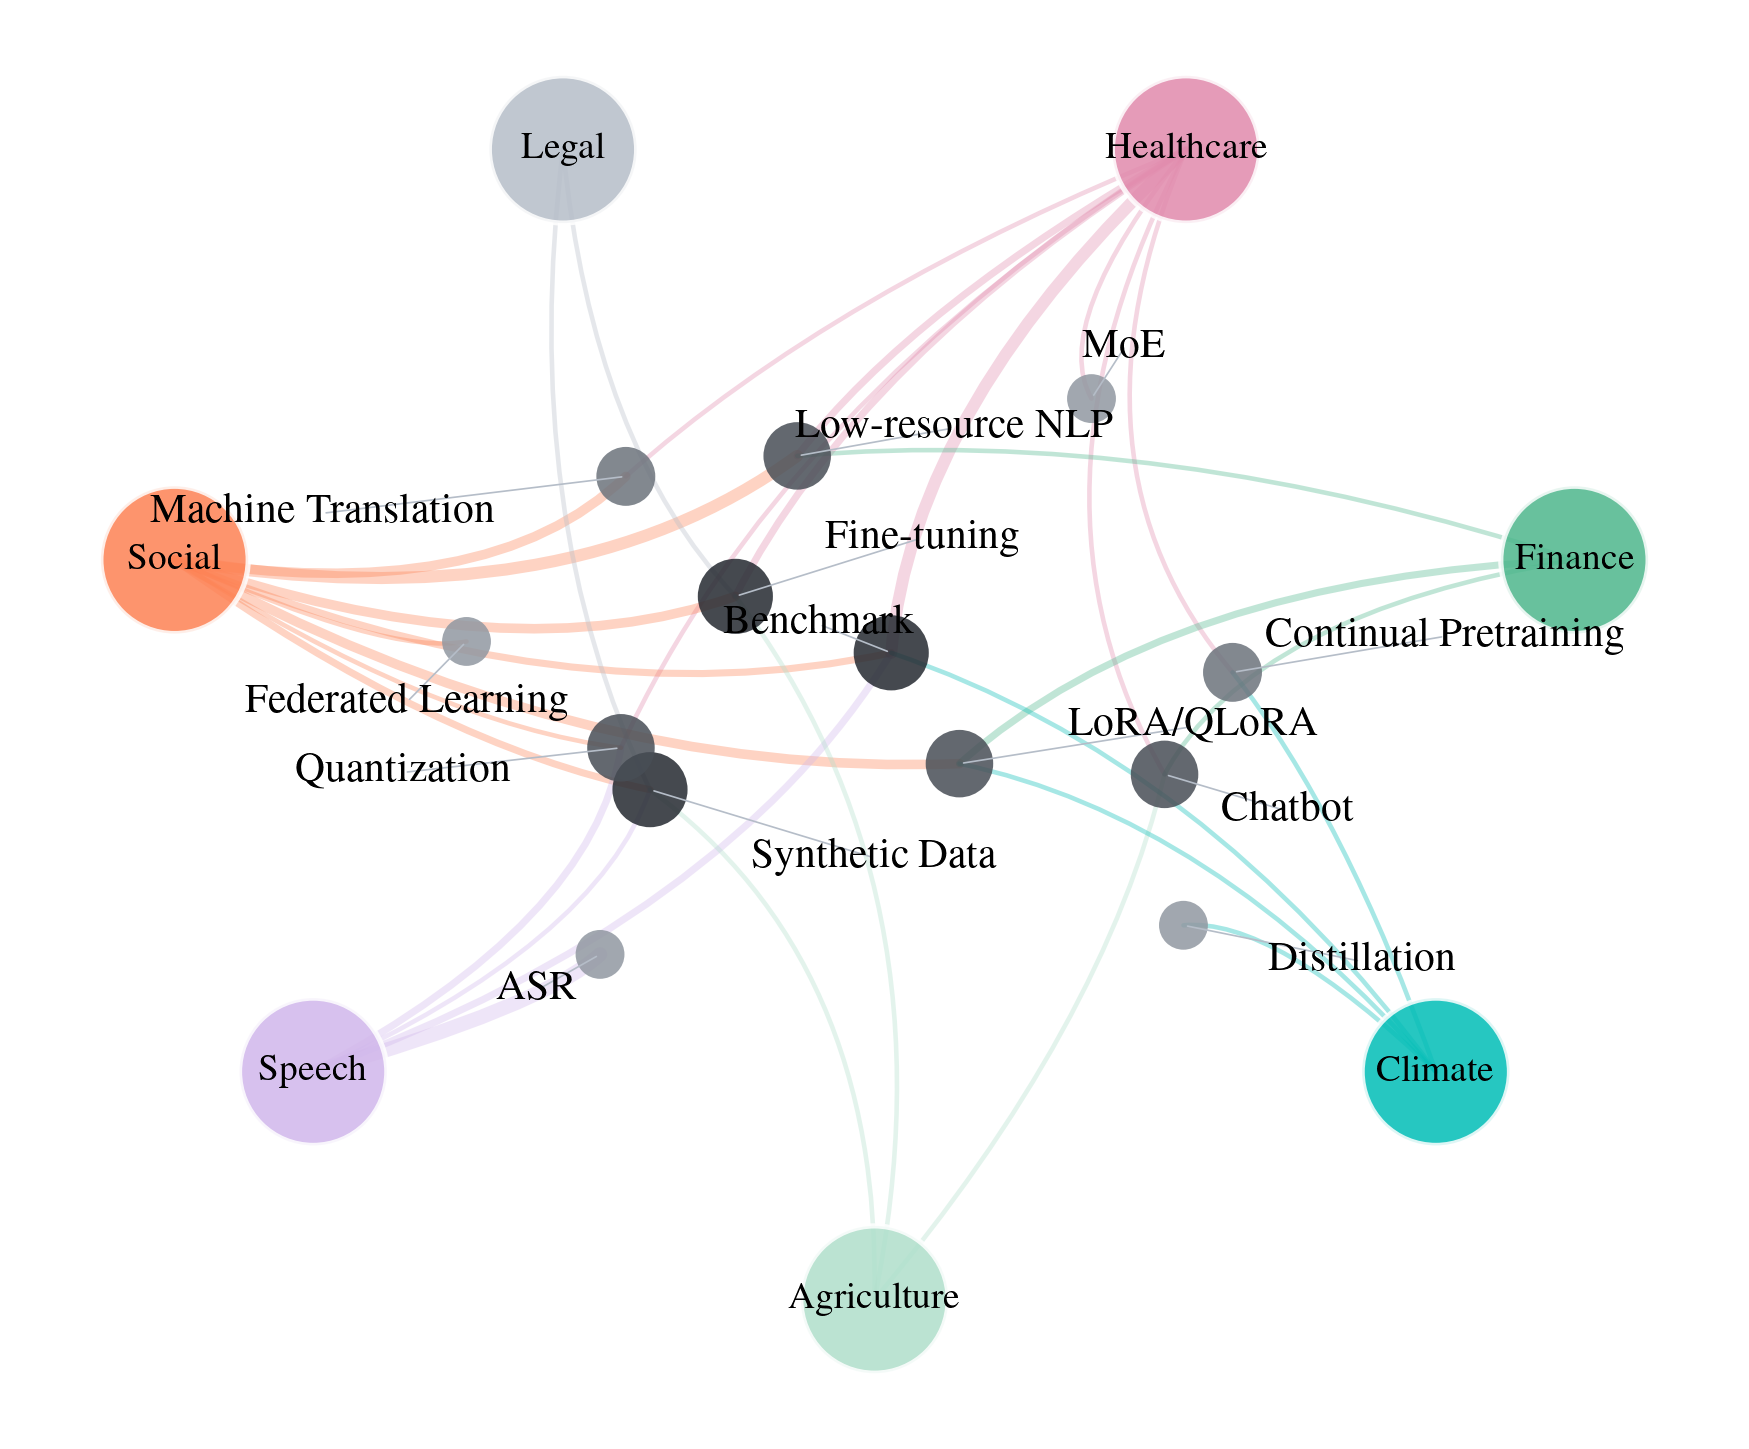
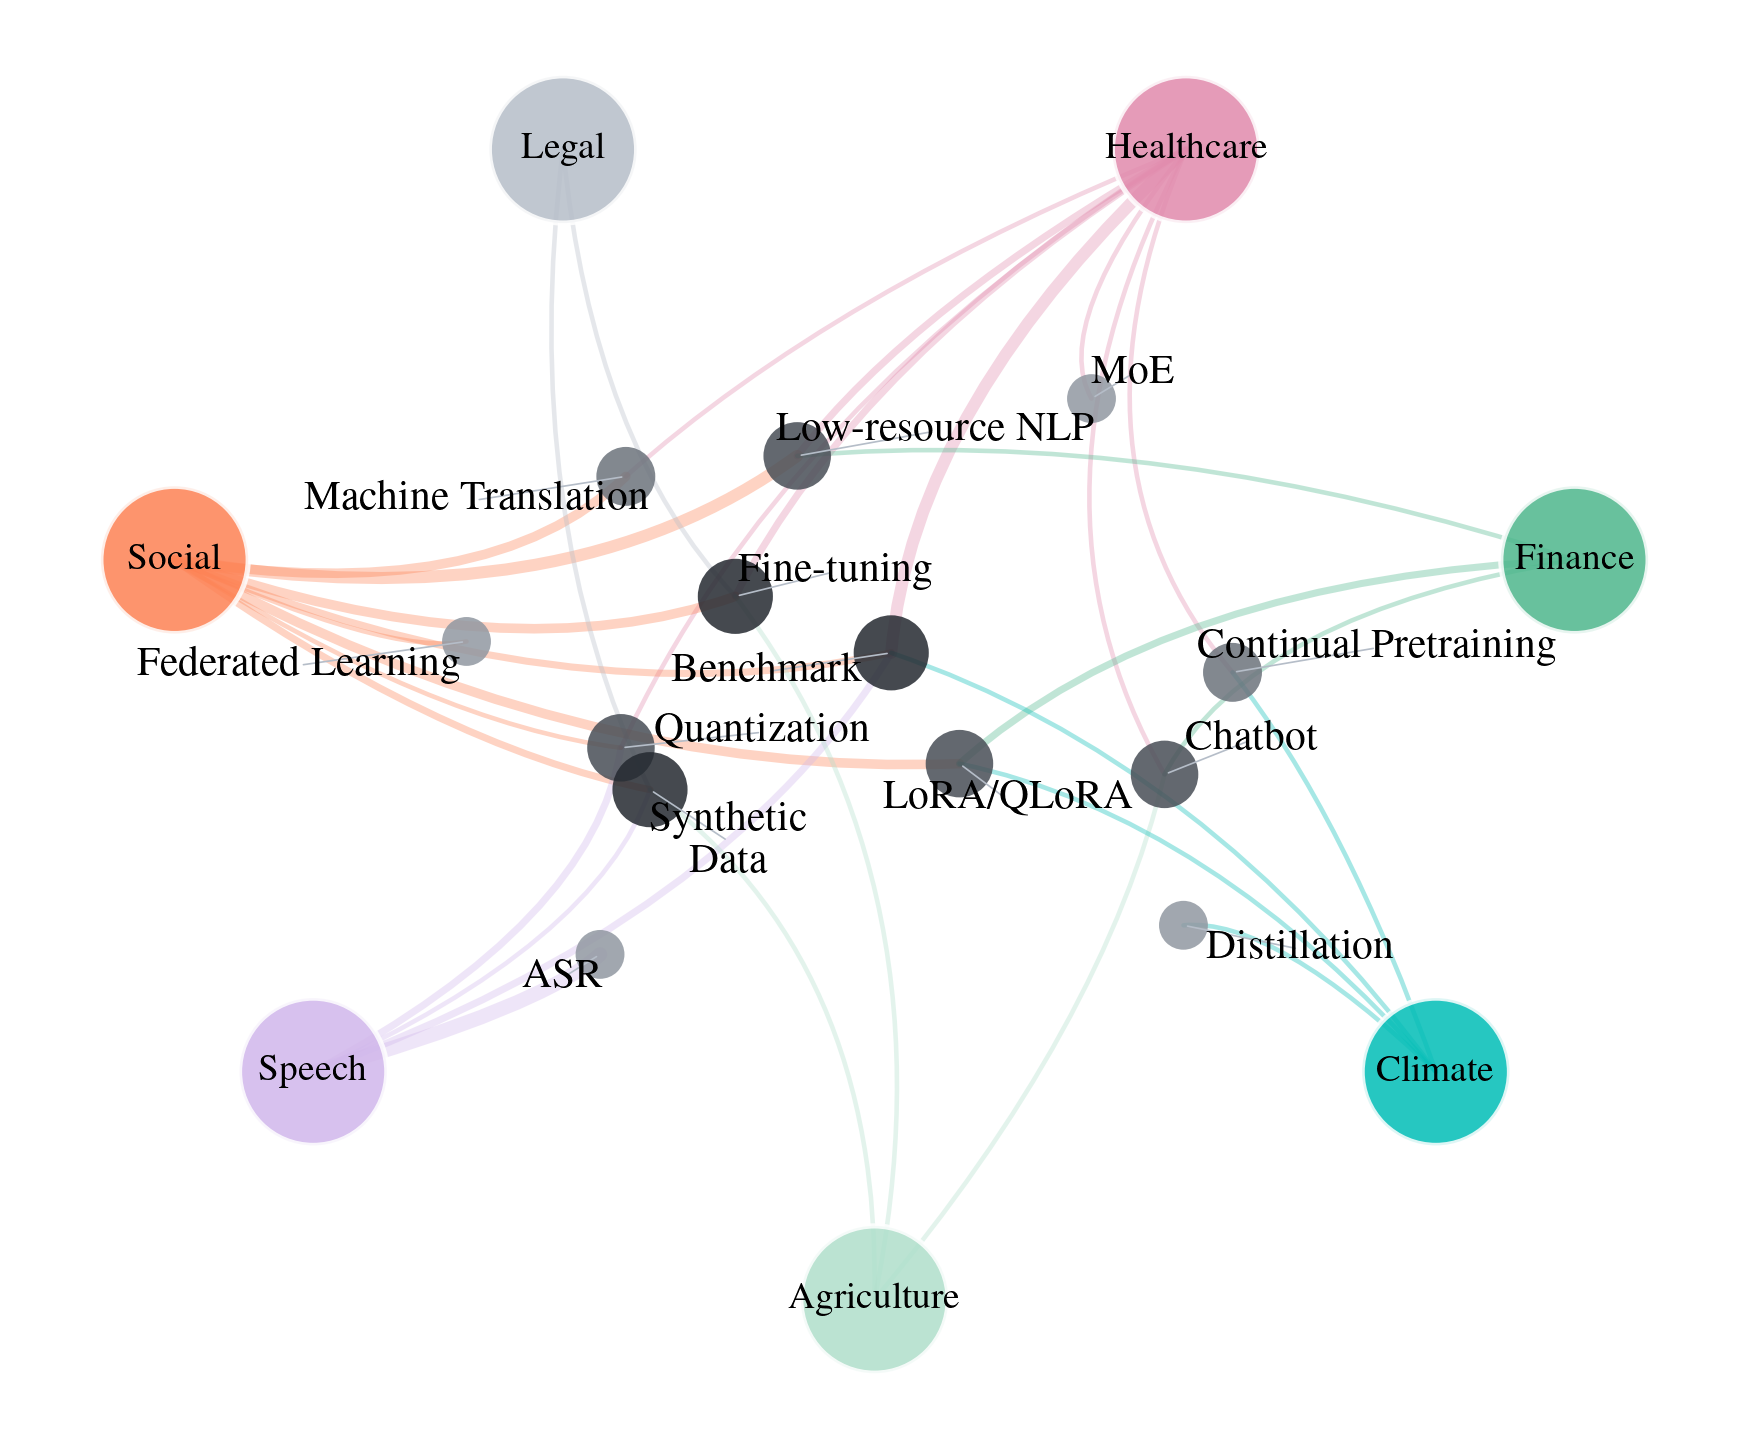
[wip] Update

diff --git a/analysis/deployment_domains.py b/analysis/deployment_domains.py
@@ -55,7 +55,7 @@ TECHNIQUE_KEYWORDS = {
     "Fine-tuning": ["fine-tun", "finetuning", "instruction tuning", " sft "],
     "MoE": ["mixture of experts", " moe ", "language family expert"],
     "Federated Learning": ["federated learning", "federated few-shot"],
-    "Synthetic Data": ["synthetic data", "data augmentation", "synthetic qa"],
+    "Synthetic\nData": ["synthetic data", "data augmentation", "synthetic qa"],
     "Continual Pretraining": [
         "continual pretrain",
         "continued pretrain",
@@ -306,9 +306,9 @@ def plot_domain_technique_network(
     adjust_text(
         technique_texts,
         ax=ax,
-        expand=(1.8, 1.8),
-        force_text=(0.8, 0.8),
-        force_points=(0.5, 0.5),
+        expand=(1.2, 1.2),
+        force_text=(0.3, 0.3),
+        force_points=(1.0, 1.0),
         arrowprops=dict(arrowstyle="-", color=COLORS["slate_2"], linewidth=0.8),
     )
 
